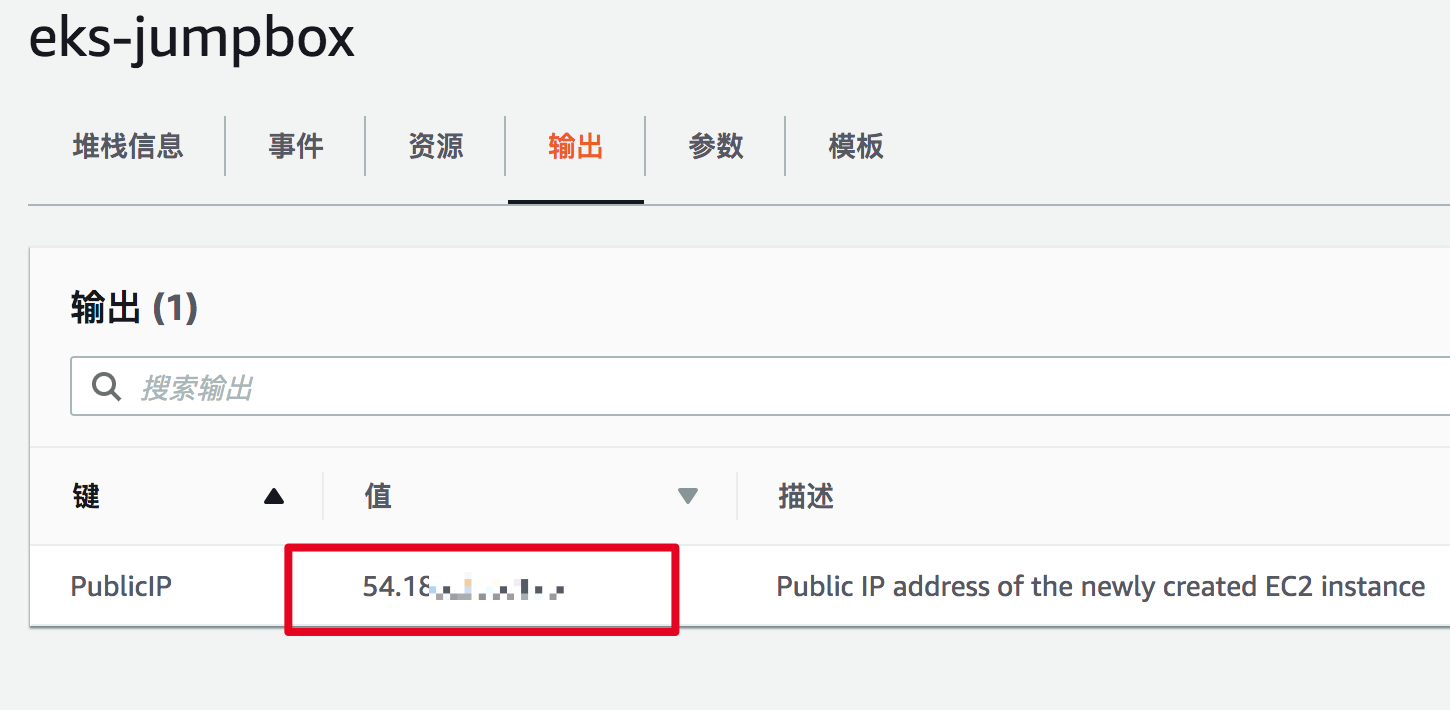
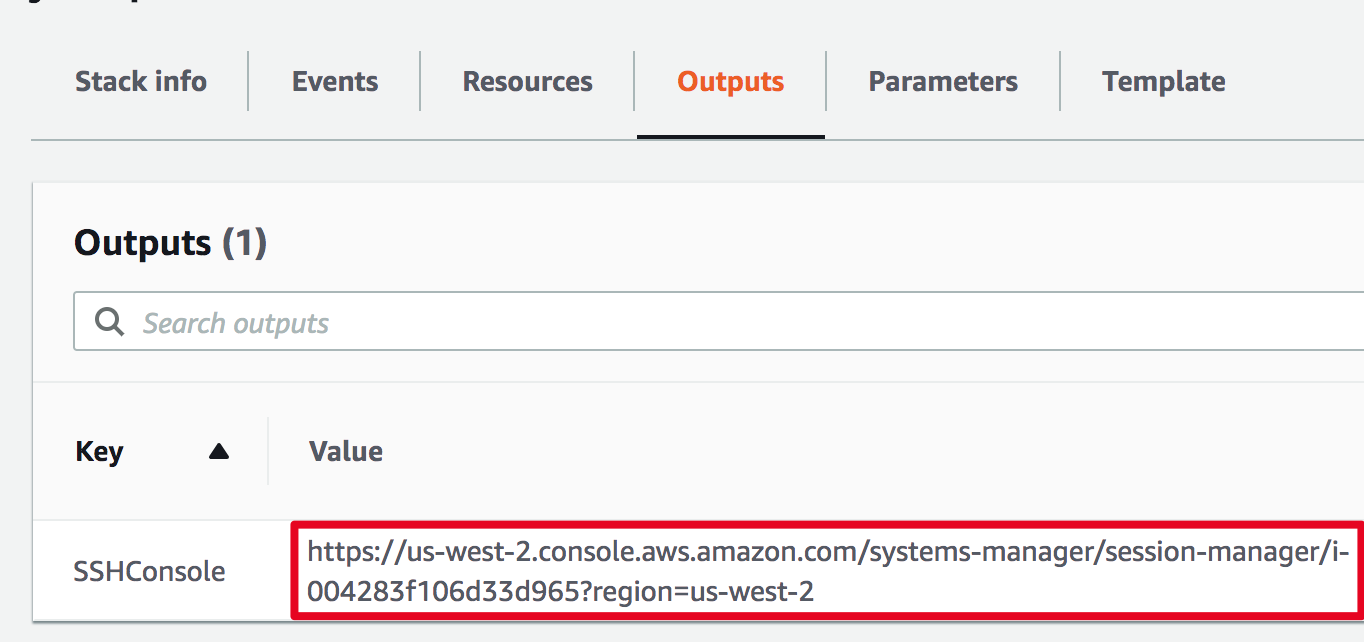
update jumpbox template to use session manager

diff --git a/README.md b/README.md
@@ -6,10 +6,9 @@
 
 ## 1. 准备工作
 ### a. 请确保您有海外AWS账号和足够的资源配额
-- 请确保您有海外AWS账号的IAM user，该用户有创建相关资源的权限，并有创建至少一个VPC和3个EC2的资源配额。
-### b. 准备跳板机所需要的VPC和SSH秘钥对
-- 可以使用默认的VPC或者创建新的VPC, 新的VPC请确保有公有子网，可以参考[这个文档](https://docs.aws.amazon.com/zh_cn/vpc/latest/userguide/VPC_Scenario1.html#VPC_Scenario1_Implementation)创建新的VPC。
-- 如果您还没有SSH秘钥对，请参考[这个文档](https://docs.aws.amazon.com/zh_cn/AWSEC2/latest/UserGuide/ec2-key-pairs.html)创建新的秘钥对。
+- 请确保您有海外AWS账号的IAM user，该用户有创建相关资源的权限。
+### b. 准备跳板机所需要的VPC
+- 可以使用默认的VPC或者创建新的VPC, 可以参考[这个文档](https://docs.aws.amazon.com/zh_cn/vpc/latest/userguide/VPC_Scenario1.html#VPC_Scenario1_Implementation)创建新的VPC。
 
 ## 2. 创建跳板机
 请点击如下链接在各AWS区域创建跳板机：
@@ -46,7 +45,6 @@
 
 在Specify stack details(指定堆栈详细信息)页面填入相应参数：
 - InstanceType: 跳板机实例类型，可以保持默认参数。
-- SSHKeyName：AWS 上创建好的SSH key pair
 - SubnetId: 跳板机所在的共有子网，请确保选择公有子网。
 - VpcId: 跳板机所在VPC，请确保SubnetId是在VpcId所在的VPC内。
 
@@ -57,21 +55,21 @@
 
 
 ## 3. 登录跳板机创建EKS集群
-- 用SSH客户端登录上述第2步创建的跳板机，跳板机的IP地址可以从CloudFormation的输出界面中找到。
+- 登录跳板机的Web SSH控制台，控制台的URL可以从CloudFormation的输出界面中找到：
 ![](./images/cfn-ip.png)
- SSH用户名是ec2-user, 示例如下
+- 运行eksctl创建新的EKS集群：
   ```bash
-  ssh ec2-user@12.34.56.78 -i /path-to-my-key.pem
+  cd ~
+  REGION=`curl -s http://169.254.169.254/latest/dynamic/instance-identity/document|grep region|awk -F\" '{print $4}'`
+  eksctl create cluster --region=$REGION
   ```
-- 登录后运行eksctl创建新的EKS集群：
-  ```bash
-  eksctl create cluster
-  ```
-  不指定任何参数时，会在us-west-2(Oregon)创建新的VPC和EKS集群，会有两个m5.large worker node. 可以加参数指定集群名称，reqion，工作节点数量和类型等信息：
+  上述命令会在当前跳板机所在region创建新的VPC和EKS集群，有两个m5.large worker node。如果需要改变默认行为，可以加参数指定集群名称，reqion，工作节点数量和类型等信息：
   ```bash
   eksctl create cluster --name=eks-workshop --region=us-east-1 --nodes=3 --node-type=c5.large
   ```
-  更多参数可参考[eksctl官方文档](https://eksctl.io/)。所有资源创建可能需要15分钟左右。
+  更多参数可参考[eksctl官方文档](https://eksctl.io/)。
+  
+  所有资源创建可能需要15分钟左右。
   
 ## 4. 创建示例应用程序 2048小游戏
 在本部分中，您将创建一个2048小游戏来测试新集群。
